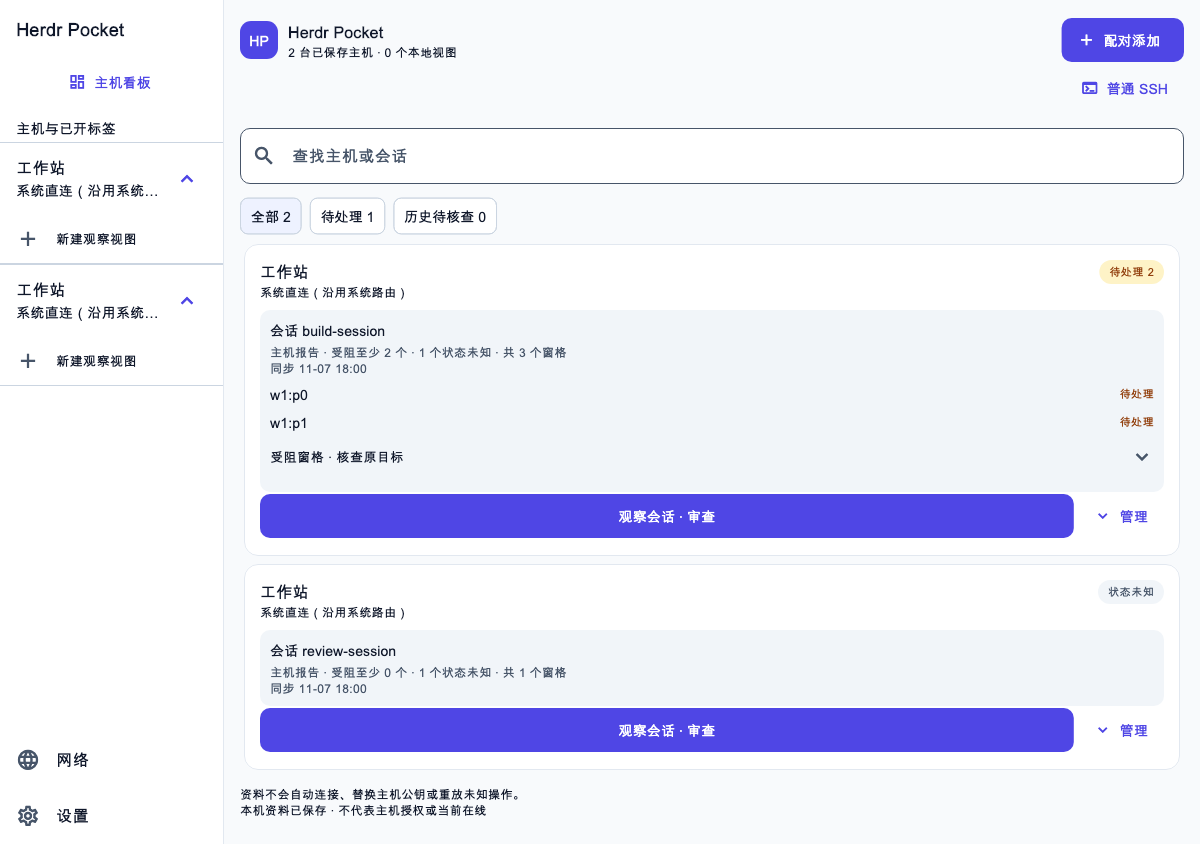
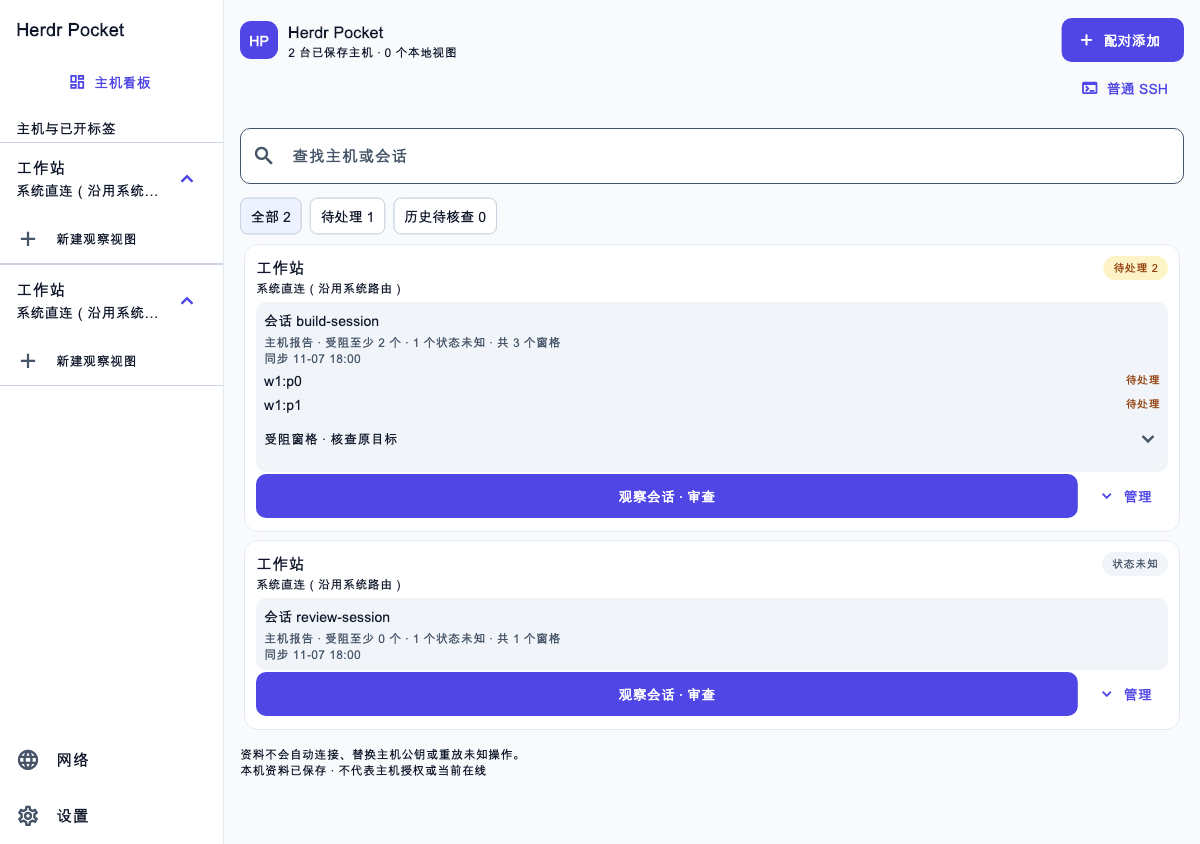
fix(flutter): keep compact board actions reachable across text sizes

diff --git a/validation/flutter/lib/host_catalog_page.dart b/validation/flutter/lib/host_catalog_page.dart
@@ -240,7 +240,7 @@ class _HostCatalogPageState extends State<HostCatalogPage> with WidgetsBindingOb
         if (sync != null) Tooltip(message:value!.detail,child:Text('同步 $sync${value.current ? '' : ' · 待核查'}',
           style:Theme.of(context).textTheme.bodySmall?.copyWith(color:widget.tokens.color('textSecondary')))),
         if (value != null && distinct.isNotEmpty) ...[
-          for (final pane in distinct.values) Padding(padding:const EdgeInsets.only(top:8),child:Row(children:[
+          for (final pane in distinct.values) Padding(padding:const EdgeInsets.only(top:4),child:Row(children:[
             Expanded(child:Text('${pane.label == null ? pane.paneId : '${pane.label} · ${pane.paneId}'}${pane.agent == null ? '' : ' / ${pane.agent}'}',
               style:Theme.of(context).textTheme.labelLarge)),
             Text(value.current ? '待处理' : '待核查',style:Theme.of(context).textTheme.labelSmall?.copyWith(
@@ -485,7 +485,7 @@ class _HostCatalogPageState extends State<HostCatalogPage> with WidgetsBindingOb
             elevation: 0,
             shape: RoundedRectangleBorder(borderRadius: BorderRadius.circular(14), side: BorderSide(color: widget.tokens.color('border'))),
             child: Padding(
-              padding: const EdgeInsets.all(16),
+              padding: const EdgeInsets.all(12),
               child: Column(
                 crossAxisAlignment: CrossAxisAlignment.stretch,
                 children: [
@@ -494,9 +494,9 @@ class _HostCatalogPageState extends State<HostCatalogPage> with WidgetsBindingOb
                     statusBadge(profile),
                   ]),
                   Text(networkDescription(profile), style: Theme.of(context).textTheme.bodySmall),
-                  const SizedBox(height: 10),
+                  const SizedBox(height: 6),
                   Material(color: widget.tokens.color('cardSubtle'), borderRadius: BorderRadius.circular(10),
-                    child: Padding(padding: const EdgeInsets.all(10), child: Column(
+                    child: Padding(padding: const EdgeInsets.all(8), child: Column(
                       crossAxisAlignment: CrossAxisAlignment.stretch, children: [
                         hostSummary(profile),
                       ]))),

diff --git a/validation/flutter/test/host_navigation_widget_test.dart b/validation/flutter/test/host_navigation_widget_test.dart
@@ -107,10 +107,17 @@ void main() {
       expect(tester.getRect(chip).right,lessThanOrEqualTo(304));
       expect(chip.hitTestable(),findsOneWidget);
     }
-    expect(tester.getRect(secondSession).bottom,lessThan(tester.getRect(find.byType(NavigationBar)).top));
     await capture('multi-320');
-    tester.platformDispatcher.textScaleFactorTestValue = 1.3;
+    final secondOpen=find.byKey(ValueKey('host-open-${other.id}'));
+    await tester.ensureVisible(secondOpen); await tester.pumpAndSettle();
+    expect(secondOpen.hitTestable(),findsOneWidget);
+    expect(tester.widget<FilledButton>(secondOpen).onPressed,isNotNull);
+    await tester.ensureVisible(find.byKey(const ValueKey('hosts-search'))); await tester.pumpAndSettle();
+    tester.platformDispatcher.textScaleFactorTestValue = 1.1;
     addTearDown(tester.platformDispatcher.clearTextScaleFactorTestValue);
+    await tester.pumpAndSettle();
+    expect(secondSession,findsOneWidget);
+    tester.platformDispatcher.textScaleFactorTestValue = 1.3;
     await tester.pumpAndSettle();
     for (final name in ['all','current','history']) {
       final chip=find.byKey(ValueKey('hosts-filter-$name'));
